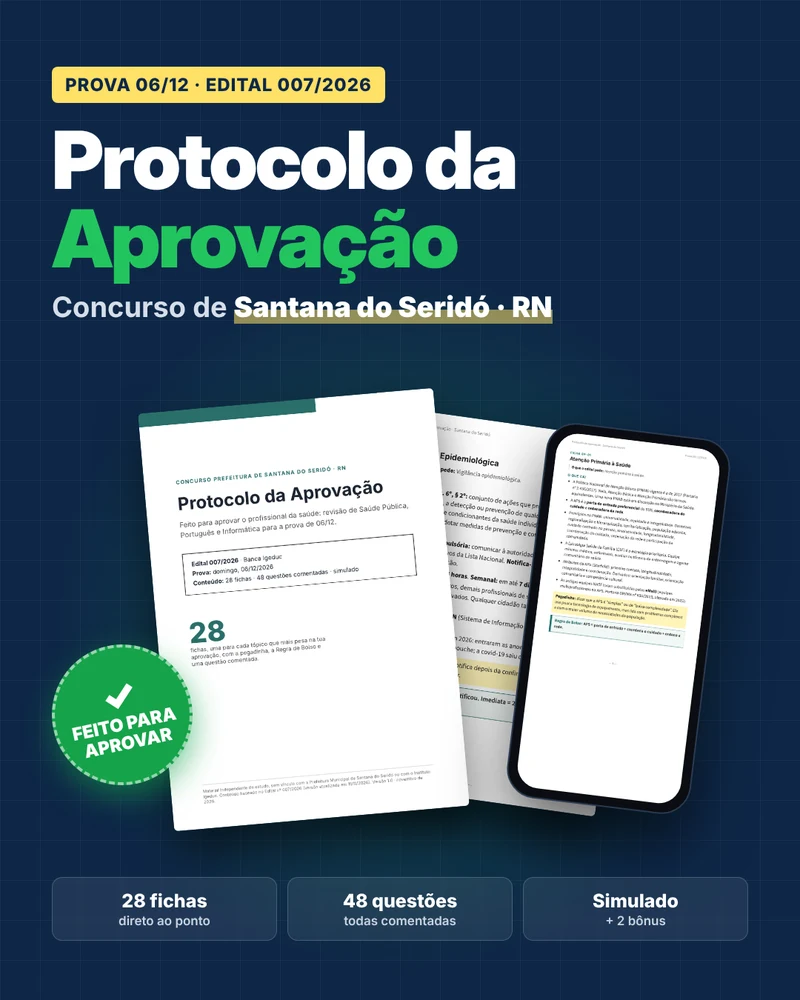
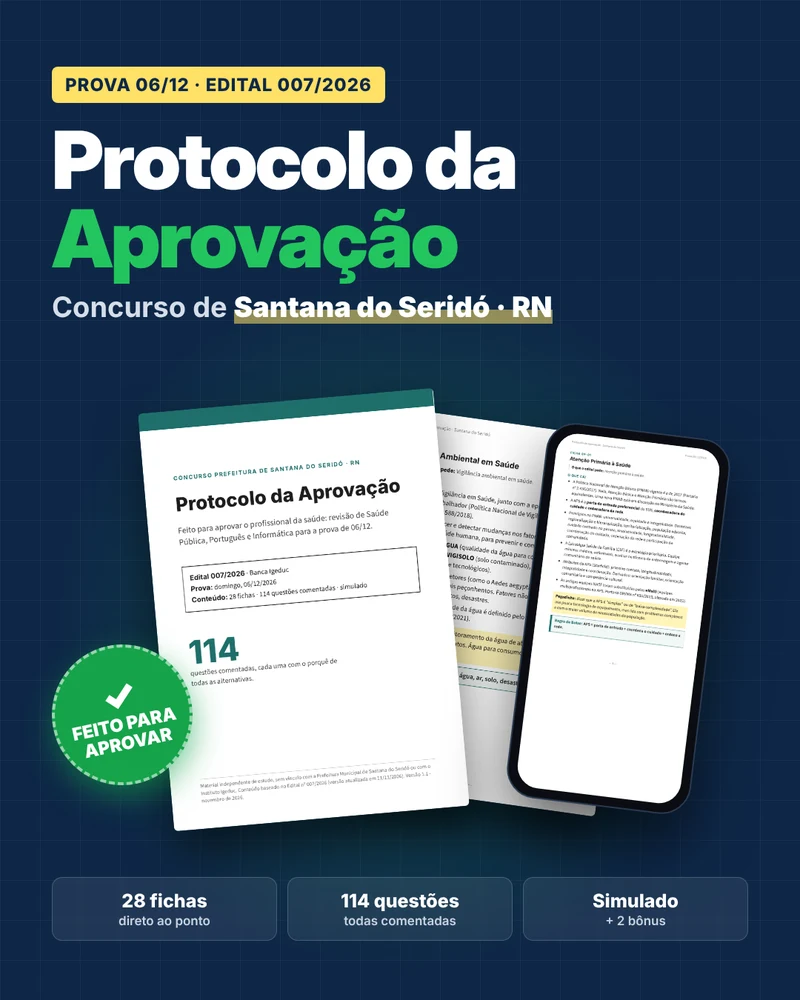
114 questoes: contagens, capa e galeria atualizadas
Claude-Session: https://claude.ai/code/session_01DdLhVrzTSzF8fYAo38uVGb

diff --git a/index.html b/index.html
@@ -131,7 +131,7 @@ fbq('init',id);fbq('track','PageView');fbq('track','ViewContent',{content_name:'
         <a class="btn" href="#planos">Bora revisar</a>
         <a class="btn btn--ghost" href="#conteudo">Ver o que tem dentro</a>
       </div>
-      <div class="stats"><div>48 questões</div><div>Feito para a Saúde</div><div>100% comentadas</div></div>
+      <div class="stats"><div>114 questões</div><div>Feito para a Saúde</div><div>100% comentadas</div></div>
     </div>
     <div class="hero-img"><img src="assets/img/capa.webp" alt="Capa do Protocolo da Aprovação Santana do Seridó com fichas de Saúde Pública e questões comentadas" width="800" height="1000" fetchpriority="high"></div>
   </div>
@@ -150,7 +150,7 @@ fbq('init',id);fbq('track','PageView');fbq('track','ViewContent',{content_name:'
   <div class="c">
     <div class="difs">
       <div class="dif"><span class="ck">✓</span><div><b>Feito em cima do Edital 007/2026</b><span>Cada ficha é um tópico do Anexo II, com o texto exato que o edital pede. Nada de conteúdo genérico de prefeitura.</span></div></div>
-      <div class="dif"><span class="ck">✓</span><div><b>Questão comentada em toda ficha</b><span>Cada ficha fecha com uma questão inédita e o porquê de cada alternativa, certa ou errada.</span></div></div>
+      <div class="dif"><span class="ck">✓</span><div><b>3 questões comentadas em toda ficha</b><span>Cada ficha fecha com 3 questões inéditas e o porquê de cada alternativa, certa ou errada.</span></div></div>
       <div class="dif"><span class="ck">✓</span><div><b>Regra de Bolso em toda ficha</b><span>Uma frase curta para puxar da memória na hora da prova, quando o nervoso bate.</span></div></div>
       <div class="dif"><span class="ck">✓</span><div><b>Revisão pelo peso</b><span>Saúde Pública primeiro, que vale 2,6 pontos por questão. Dá para revisar em 1, 3 ou 7 dias.</span></div></div>
       <div class="dif"><span class="ck">✓</span><div><b>Revisa no celular</b><span>PDF leve, que abre em qualquer celular e funciona sem internet depois de baixar. No ônibus, na fila, no plantão.</span></div></div>
@@ -165,15 +165,15 @@ fbq('init',id);fbq('track','PageView');fbq('track','ViewContent',{content_name:'
     <h2>O que tem no Protocolo</h2>
     <p class="lead">Cada parte traz fichas diretas: o que cai, a pegadinha, a Regra de Bolso e questões comentadas no estilo situação-problema que o edital prevê.</p>
     <div class="parts">
-      <div class="part"><span>Saúde Pública · SUS, Leis e Políticas</span><span class="n">4 questões</span></div>
-      <div class="part"><span>Saúde Pública · Atenção Primária e Redes</span><span class="n">4 questões</span></div>
-      <div class="part"><span>Saúde Pública · Vigilâncias</span><span class="n">3 questões</span></div>
-      <div class="part"><span>Saúde Pública · Epidemiologia e Prevenção</span><span class="n">4 questões</span></div>
-      <div class="part"><span>Língua Portuguesa</span><span class="n">8 questões</span></div>
-      <div class="part"><span>Informática</span><span class="n">5 questões</span></div>
-      <div class="part"><span>Simulado Núcleo 55</span><span class="n">20 questões</span></div>
+      <div class="part"><span>Saúde Pública · SUS, Leis e Políticas</span><span class="n">12 questões</span></div>
+      <div class="part"><span>Saúde Pública · Atenção Primária e Redes</span><span class="n">12 questões</span></div>
+      <div class="part"><span>Saúde Pública · Vigilâncias</span><span class="n">9 questões</span></div>
+      <div class="part"><span>Saúde Pública · Epidemiologia e Prevenção</span><span class="n">12 questões</span></div>
+      <div class="part"><span>Língua Portuguesa</span><span class="n">24 questões</span></div>
+      <div class="part"><span>Informática</span><span class="n">15 questões</span></div>
+      <div class="part"><span>Simulado Núcleo 55</span><span class="n">30 questões</span></div>
     </div>
-    <p class="soma">As contagens somam 48 questões, todas comentadas.</p>
+    <p class="soma">São 114 questões, todas comentadas: 3 em cada ficha e mais 30 no simulado.</p>
   </div>
 </section>
 
@@ -212,7 +212,7 @@ fbq('init',id);fbq('track','PageView');fbq('track','ViewContent',{content_name:'
     <div>
       <p class="eyebrow">Por que esse material funciona</p>
       <h2>Feito para te aprovar em Santana do Seridó</h2>
-      <p class="lead">O Protocolo nasceu do Edital 007/2026. A gente pegou o Anexo II com olhar de quem é da saúde e separou os blocos que mais pesam na tua classificação: Saúde Pública, Português e Informática, 55,5 pontos da prova. Cada tópico virou uma ficha curta, com o que cai, a pegadinha, uma Regra de Bolso e uma questão comentada. Estuda por ele e tu chega no dia 06/12 com o núcleo da tua aprovação dominado.</p>
+      <p class="lead">O Protocolo nasceu do Edital 007/2026. A gente pegou o Anexo II com olhar de quem é da saúde e separou os blocos que mais pesam na tua classificação: Saúde Pública, Português e Informática, 55,5 pontos da prova. Cada tópico virou uma ficha curta, com o que cai, a pegadinha, uma Regra de Bolso e 3 questões comentadas. Estuda por ele e tu chega no dia 06/12 com o núcleo da tua aprovação dominado.</p>
       <blockquote>Tu não precisa saber tudo para passar. Precisa dominar o que decide a aprovação, e está tudo aqui.</blockquote>
       <div class="ind"><div>55,5 pontos mapeados</div><div>Feito para quem é da saúde</div><div>28 fichas diretas</div><div>100% com gabarito comentado</div></div>
     </div>
@@ -228,7 +228,7 @@ fbq('init',id);fbq('track','PageView');fbq('track','ViewContent',{content_name:'
         <h3>Plano Básico</h3>
         <p class="d">O bloco que mais pesa, para começar a revisar hoje.</p>
         <p class="price">R$ 9,90 <small>à vista</small></p>
-        <ul><li>15 fichas de Saúde Pública, o bloco que mais pesa</li><li>15 questões comentadas</li></ul>
+        <ul><li>15 fichas de Saúde Pública, o bloco que mais pesa</li><li>45 questões comentadas</li></ul>
         <a class="btn" data-plano="basico" href="#planos">Começar por R$ 9,90</a>
       </div>
       <div class="plan plan--top">
